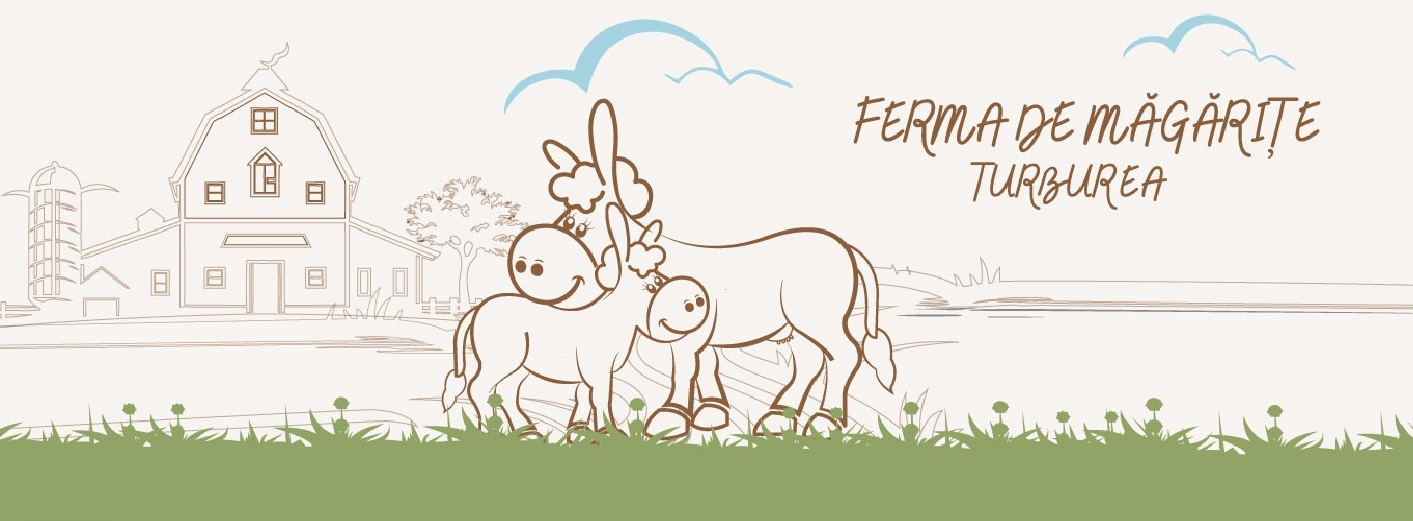
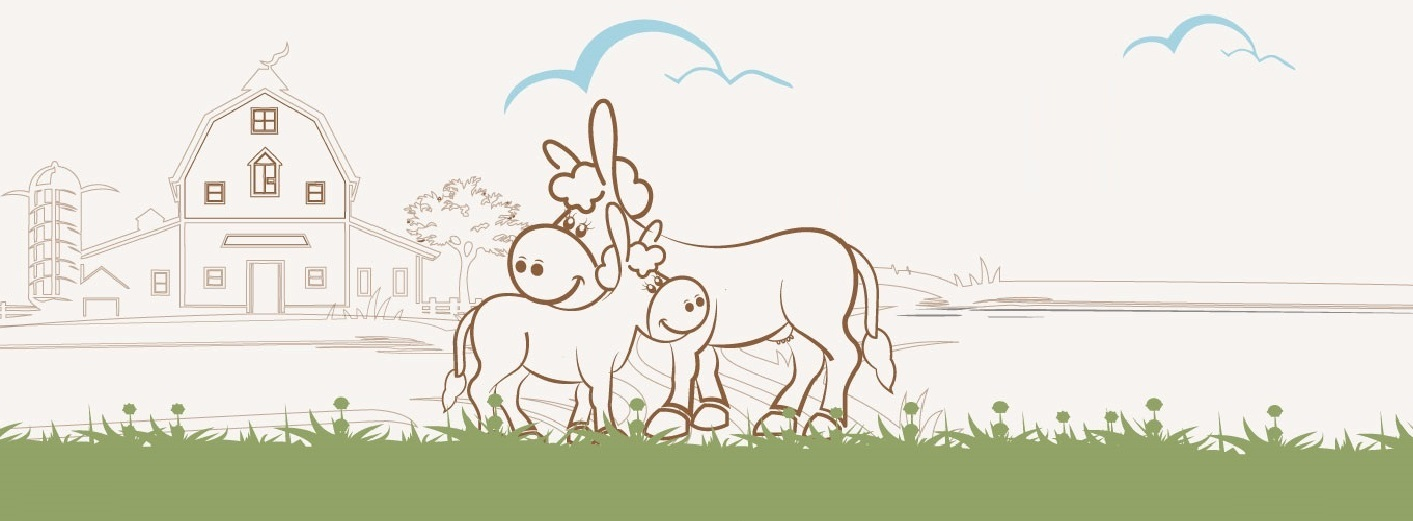
I updated index file

Changed region(s): [[0.5916, 0.1843, 0.9342, 0.3992]]

diff --git a/index.html b/index.html
@@ -25,14 +25,15 @@
 <body>
     <!-- top image -->
     <div>
-        <img src="image/Image_4.jpg" alt="Image_4">
+        <img src="image/Image_4.jpg" class="bannerImage" alt="Image_4">
+        <img src="image/text.png" class="textimage">
     </div>
     <div id="mobileNavBarOpenBtn" class="mainbar sticky-top">
         <span onclick="mobilemenu()"><i class="fa fa-bars"></i></span>
+        <!-- <span><i class="fa-light fa-cart-circle-arrow-up"></i></span> -->
     </div>
     <div id="myMainbar" class="mainbar">
         <div>
-            <!-- <span><i class="fa-light fa-cart-circle-arrow-up"></i></span> -->
             <a href="./index.html">Home</a>
             <a href="./order.html">Order</a>
             <a href="javascript:void(0)">Contact</a>
@@ -58,51 +59,52 @@
             <a href="javascript:void(0)">FAQ</a>
         </li>
     </ul>
+    <!-- 
+    <div class="container p-5"> -->
+    <div class="productIntro row p-5">
 
-    <div class="container p-5">
-
-        <div id="demo" class="carousel slide borderimage row" data-ride="carousel">
-
-
-            <!-- The slideshow -->
-            <div class="carousel-inner">
-                <div class="carousel-item active">
-                    <img src="image/Image_1.jpg" alt="Image_1" style="width: 100%; height: auto;">
-                    <button type="button" class="btn2" onclick="orderNow()">Order Now</button>
-                </div>
-                <div class="carousel-item">
-                    <img src="image/image_2.jpg" alt="Image_2" style="width: 100%; height: auto;">
-                    <button type="button" class="btn2" onclick="orderNow()">Order Now</button>
-                </div>
-                <div class="carousel-item">
-                    <img src="image/Image_3.jpg" alt="Image_3" style="width: 100%; height: auto;">
-                    <button type="button" class="btn2" onclick="orderNow()">Order Now</button>
-                </div>
-            </div>
-            <!-- Left and right controls -->
-
-            <a class="carousel-control-prev" href="#demo" data-slide="prev">
-                <span><i class="fa-solid fa-angle-left text-muted slidebutton"></i></span>
-            </a>
-            <a class="carousel-control-next" href="#demo" data-slide="next">
-                <span><i class="fa-solid fa-angle-right text-muted slidebutton"></i></span>
-            </a>
-            <!-- order -->
+        <div class="col-9 col-md-5">
+            <img src="image/Image_8.jpg" class="productImage" style="width: 100%; height: auto;">
         </div>
-        <!-- product overview -->
-        <div class="productIntro row p-5">
-
-            <div class="col-9 col-md-5">
-                <img src="image/Image_8.jpg" class="productImage" style="width: 100%; height: auto;">
-            </div>
-            <div class="col-9 col-md-5 text-center align-content-center">
-                <h5>Donkey milk is the milk produced by female donkeys, known for its nutritional and therapeutic
-                    properties. It has been used since ancient times for its potential health benefits. </h5>
-                <button type="button" class="btn1" onclick="orderNow()">Order Now</button>
-            </div>
-
+        <div class="col-9 col-md-5 row text-center align-content-center">
+            <h5>Donkey milk is the milk produced by female donkeys, known for its nutritional and therapeutic
+                properties. It has been used since ancient times for its potential health benefits. </h5>
+            <button type="button" class="productOrderBtn" onclick="orderNow()">Order Now</button>
         </div>
     </div>
+
+    <div id="demo" class="carousel slide borderimage row" data-ride="carousel">
+        <!-- The slideshow -->
+        <a class="carousel-control-prev" href="#demo" data-slide="prev">
+            <span><i class="fa-solid fa-angle-left text-muted"></i></span>
+        </a>
+        <a class="carousel-control-next" href="#demo" data-slide="next">
+            <span><i class="fa-solid fa-angle-right text-muted"></i></span>
+        </a>
+        <div class="carousel-inner">
+            <div class="carousel-item active">
+                <img src="image/Image_1.jpg" class="slideimage" alt="Image_1" style="width: 100%; height: auto;">
+                <button type="button" class="slidebutton" onclick="orderNow()">Order
+                    Now</button>
+            </div>
+            <div class="carousel-item">
+                <img src="image/image_2.jpg" class="slideimage" alt="Image_2" style="width: 100%; height: auto;">
+                <button type="button" class="slidebutton" onclick="orderNow()">Order Now</button>
+            </div>
+            <div class="carousel-item">
+                <img src="image/Image_3.jpg" class="slideimage" alt="Image_3" style="width: 100%; height: auto;">
+                <button type="button" class="slidebutton" onclick="orderNow()">Order Now</button>
+            </div>
+        </div>
+        <!-- Left and right controls -->
+
+
+        <!-- order -->
+    </div>
+    <!-- product overview -->
+
+    <!-- </div> -->
+
     <!-- slideshow -->
 
 

diff --git a/asset/index.css b/asset/index.css
@@ -1,5 +1,8 @@
 body {
     background-image: url('../image/background_home.png');
+    background-repeat: no-repeat;
+    background-attachment: fixed;
+    background-size: 100% 100%;
     background-color: #F7F4F1;
     font-size: 1.4rem;
     font-weight: bold;
@@ -9,10 +12,9 @@ body {
 
 /* navbar */
 
-
-
 #mobileNavBarOpenBtn {
     position: sticky;
+    font-size: 2.5rem;
     display: none;
     cursor: pointer;
     margin-bottom: 10px;
@@ -33,6 +35,10 @@ body {
     background-color: #A4D3E1;
     transform: translate(-800px);
     transition-duration: 0.6s;
+}
+
+.slideimage {
+    transform: scale(1.5);
 }
 
 .mobileNavBar>li {
@@ -103,12 +109,6 @@ body {
     font-size: 2rem;
 }
 
-
-
-.slidebutton {
-    font-size: 2.5rem;
-}
-
 img {
     width: 100%;
     height: auto;
@@ -146,10 +146,22 @@ img {
 
 .productIntro>.text-center {
     display: flex;
-    justify-content: space-between;
+    justify-content: space-around;
     flex-wrap: nowrap;
     flex-direction: column;
     align-items: center;
+}
+
+.textimage {
+    position: absolute;
+    top: 30px;
+    /* Adjust as needed */
+    right: 0;
+    /* Adjust as needed */
+    width: 400px;
+    /* Adjust size of overlay image */
+    height: auto;
+    /* Maintain aspect ratio */
 }
 
 .productImage {
@@ -158,13 +170,26 @@ img {
     border-width: 3px;
 }
 
-.btn2 {
+.slidebutton {
     position: absolute;
     bottom: 0;
     right: 0;
     transform: translate(-50%, -50%);
     -ms-transform: translate(-50%, -50%);
-    padding: 12px 24px;
+    padding: 12px 12px;
+    border: none;
+    cursor: pointer;
+    border-radius: 5px;
+    text-align: center;
+    font-size: 1.8rem;
+    background-color: #A4D3E1;
+    color: #8B5E3C;
+    z-index: 10;
+}
+
+.productOrderBtn {
+    padding: 12px 12px;
+    width: 70%;
     border: none;
     cursor: pointer;
     border-radius: 5px;
@@ -174,26 +199,15 @@ img {
     color: #8B5E3C;
 }
 
-.btn1 {
-    padding: 12px 24px;
-    border: none;
-    cursor: pointer;
-    border-radius: 5px;
-    text-align: center;
-    font-size: 1.8rem;
-    background-color: #A4D3E1;
-    color: #8B5E3C;
-}
+@media only screen and (max-width: 1080px) {
 
-@media only screen and (max-width: 1200px) {
-
-    .btn2,
-    .btn1 {
+    .slidebutton {
         font-size: 1.2rem;
     }
 }
 
-@media only screen and (max-width: 1000px) {
+@media only screen and (max-width: 900px) {
+
     .mainbar a:not(:first-child) {
         display: none;
     }
@@ -202,17 +216,70 @@ img {
         display: block;
     }
 
-    .btn2,
-    .btn1 {
+    .slidebutton {
         font-size: 0.9rem;
     }
 }
 
-@media only screen and (max-width: 770px) {
+@media only screen and (max-width: 720px) {
 
-    .btn2,
-    .btn1 {
+
+    .slidebutton {
+        position: absolute;
+        bottom: 0;
+        right: 50%;
+        border: none;
+        cursor: pointer;
+        transform: translate(50%, -50%);
+        border-radius: 5px;
+        text-align: center;
         font-size: 0.6rem;
+        background-color: #A4D3E1;
+        color: #8B5E3C;
+        z-index: 10;
+    }
+
+    #mobileNavBarOpenBtn {
+        display: block;
+
+    }
+
+    .mobileNavBar {
+        display: flex;
+    }
+
+    #myMainbar {
+        display: none;
+    }
+}
+
+@media only screen and (max-width: 540px) {
+
+    .slidebutton {
+        position: absolute;
+        bottom: 0;
+        right: 50%;
+        transform: translate(50%, -50%);
+        border: none;
+        cursor: pointer;
+        border-radius: 5px;
+        text-align: center;
+        font-size: 0.4rem;
+        background-color: #A4D3E1;
+        color: #8B5E3C;
+        z-index: 10;
+    }
+
+    .textimage {
+        position: absolute;
+        top: 30px;
+        /* Adjust as needed */
+        right: 0;
+        /* Adjust as needed */
+        width: 300px;
+        /* Adjust size of overlay image */
+        height: auto;
+        /* Maintain aspect ratio */
     }
 
     #mobileNavBarOpenBtn {

diff --git a/test.html b/test.html
@@ -1,24 +1,43 @@
 <!DOCTYPE html>
-<html>
+<html lang="en">
+
+<head>
+    <meta charset="UTF-8">
+    <meta name="viewport" content="width=device-width, initial-scale=1.0">
+    <title>Image Overlay</title>
+    <style>
+        .image-container {
+            position: relative;
+            display: inline-block;
+            /* Adjust as needed */
+        }
+
+        .background {
+            width: 100%;
+            /* Adjust as needed */
+            height: auto;
+            /* Maintain aspect ratio */
+        }
+
+        .overlay {
+            position: absolute;
+            top: 30px;
+            /* Adjust as needed */
+            right: 0;
+            /* Adjust as needed */
+            width: 400px;
+            /* Adjust size of overlay image */
+            height: auto;
+            /* Maintain aspect ratio */
+        }
+    </style>
+</head>
 
 <body>
-
-    <h1>My First Google Map</h1>
-
-    <div id="googleMap" style="width:100%;height:400px;"></div>
-
-    <script>
-        function myMap() {
-            var mapProp = {
-                center: new google.maps.LatLng(51.508742, -0.120850),
-                zoom: 5,
-            };
-            var map = new google.maps.Map(document.getElementById("googleMap"), mapProp);
-        }
-    </script>
-
-    <script src="https://maps.googleapis.com/maps/api/js?key=YOUR_KEY&callback=myMap"></script>
-
+    <div class="image-container">
+        <img src="image/Image_4.jpg" alt="Background Image" class="background">
+        <img src="image/text.png" alt="Overlay Image" class="overlay">
+    </div>
 </body>
 
 </html>

diff --git a/asset/index.js b/asset/index.js
@@ -1,7 +1,7 @@
 document.addEventListener('click', function (event) {
     const x = event.clientX;
     const screenWidth = window.innerWidth;
-    if (x > screenWidth / 2) {
+    if (x > screenWidth / 1.5) {
         document.getElementById("mobileNavBar").style.transform = "translate(-800px)";
         document.getElementById("mobileNavBar").style.transitionDuration = "1s";
     }
